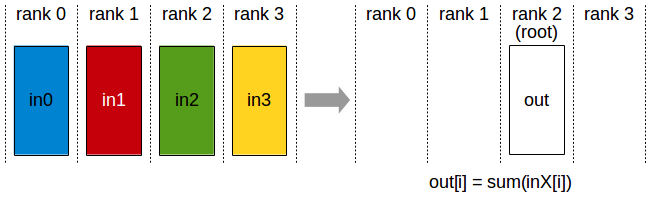
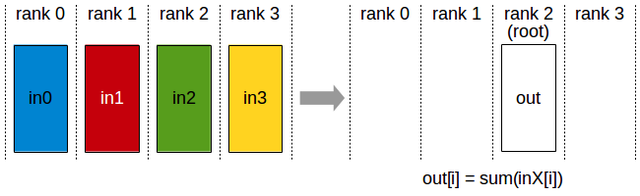
Normalize figure display width to 640px.
Resize docs/figures and NCCL diagrams, and pin README img tags to the same width.

diff --git a/README.md b/README.md
@@ -2,13 +2,13 @@
 
 Map PyTorch **source layout**, **dispatcher / backends**, and **module call stacks** with small cases under `modules/`.
 
-Figures: [`docs/figures/`](docs/figures/). Upstream paths mean a normal PyTorch tree (`torch/`, `aten/`, `c10/`).
+Figures: [`docs/figures/`](docs/figures/) (display width **640px**). Upstream paths mean a normal PyTorch tree (`torch/`, `aten/`, `c10/`).
 
 ---
 
 ## 1. Architecture
 
-![PyTorch composition](docs/figures/pytorch_architecture.jpg)
+<img src="docs/figures/pytorch_architecture.jpg" width="640" alt="PyTorch composition" />
 
 | Layer | Path |
 | --- | --- |
@@ -18,7 +18,7 @@ Figures: [`docs/figures/`](docs/figures/). Upstream paths mean a normal PyTorch 
 | Libs | `ATen` (ops + Dispatcher) · `c10` (Tensor/Storage/Device/allocator) |
 | Runtime | CUDA / NCCL / drivers |
 
-![torch.compile](docs/figures/torch_compile_flow.jpg)
+<img src="docs/figures/torch_compile_flow.jpg" width="640" alt="torch.compile" />
 
 ---
 
@@ -47,9 +47,9 @@ Figures: [`docs/figures/`](docs/figures/). Upstream paths mean a normal PyTorch 
 
 Eager ops go through the Dispatcher. Kernels are selected by **DispatchKey** / **DispatchKeySet** (`c10/core/DispatchKey.h`).
 
-![Dispatcher mechanism](docs/figures/dispatcher_mechanism.jpg)
+<img src="docs/figures/dispatcher_mechanism.jpg" width="640" alt="Dispatcher mechanism" />
 
-![Backend routing](docs/figures/dispatcher_backend_routing.jpg)
+<img src="docs/figures/dispatcher_backend_routing.jpg" width="640" alt="Backend routing" />
 
 | Idea | Detail |
 | --- | --- |
@@ -58,7 +58,7 @@ Eager ops go through the Dispatcher. Kernels are selected by **DispatchKey** / *
 | Redispatch | wrap keys (Autograd / Functionalize / …) peel themselves and call again |
 | Backend | final key → CPU / CUDA / MPS / XPU / PrivateUse1 / … implementation |
 
-![Eager stack (`torch.add`)](docs/figures/dispatcher_eager_stack.jpg)
+<img src="docs/figures/dispatcher_eager_stack.jpg" width="640" alt="Eager stack torch.add" />
 
 More notes: [`docs/dispatcher/overview.md`](docs/dispatcher/overview.md).
 
@@ -66,40 +66,19 @@ More notes: [`docs/dispatcher/overview.md`](docs/dispatcher/overview.md).
 
 ## 4. Module call stacks
 
-### Tensor
+| Tensor · [`modules/tensor`](modules/tensor/) | Autograd · [`modules/autograd`](modules/autograd/) |
+| --- | --- |
+| <img src="docs/figures/tensor_call_stack.jpg" width="640" alt="Tensor" /> | <img src="docs/figures/autograd_call_stack.jpg" width="640" alt="Autograd" /> |
 
-![Tensor](docs/figures/tensor_call_stack.jpg)
+| NN · [`modules/nn`](modules/nn/) | CUDA · [`modules/cuda`](modules/cuda/) |
+| --- | --- |
+| <img src="docs/figures/nn_call_stack.jpg" width="640" alt="NN" /> | <img src="docs/figures/cuda_call_stack.jpg" width="640" alt="CUDA" /> |
 
-Case: [`modules/tensor`](modules/tensor/)
+**Distributed** · [`modules/distributed`](modules/distributed/) (NCCL diagrams in that README)
 
-### Autograd
+<img src="docs/figures/distributed_call_stack.jpg" width="640" alt="Distributed" />
 
-![Autograd](docs/figures/autograd_call_stack.jpg)
-
-Case: [`modules/autograd`](modules/autograd/)
-
-### NN
-
-![NN](docs/figures/nn_call_stack.jpg)
-
-Case: [`modules/nn`](modules/nn/)
-
-### CUDA
-
-![CUDA](docs/figures/cuda_call_stack.jpg)
-
-Case: [`modules/cuda`](modules/cuda/)
-
-### Distributed
-
-![Distributed](docs/figures/distributed_call_stack.jpg)
-
-Cases + NCCL diagrams: [`modules/distributed`](modules/distributed/)
-
-### Compile / Export
-
-Compile flowchart is in §1. Export sketch: [`modules/export`](modules/export/).  
-c10/ATen reading index: [`modules/c10_aten`](modules/c10_aten/).
+**Compile / Export:** compile figure in §1; export sketch [`modules/export`](modules/export/); c10/ATen index [`modules/c10_aten`](modules/c10_aten/).
 
 ---
 

diff --git a/modules/distributed/README.md b/modules/distributed/README.md
@@ -22,7 +22,7 @@ cd modules/distributed
 
 ## 1. AllReduce — `test_allreduce.py` / `run_allreduce.sh`
 
-![AllReduce](images/allreduce.png)
+<img src="images/allreduce.png" width="640" alt="AllReduce" />
 
 *Source: [NCCL Collective Operations — AllReduce](https://docs.nvidia.com/deeplearning/nccl/user-guide/docs/usage/collectives.html#allreduce)*
 
@@ -40,7 +40,7 @@ Reduce across all ranks (sum / min / max / …), then leave the **full** result 
 
 ## 2. Broadcast — `test_broadcast.py` / `run_broadcast.sh`
 
-![Broadcast](images/broadcast.png)
+<img src="images/broadcast.png" width="640" alt="Broadcast" />
 
 *Source: [NCCL Collective Operations — Broadcast](https://docs.nvidia.com/deeplearning/nccl/user-guide/docs/usage/collectives.html#broadcast)*
 
@@ -58,7 +58,7 @@ Copy a length-`N` buffer from `--root` (default `2`) to every other rank.
 
 ## 3. Reduce — `test_reduce.py` / `run_reduce.sh`
 
-![Reduce](images/reduce.png)
+<img src="images/reduce.png" width="640" alt="Reduce" />
 
 *Source: [NCCL Collective Operations — Reduce](https://docs.nvidia.com/deeplearning/nccl/user-guide/docs/usage/collectives.html#reduce)*
 
@@ -76,7 +76,7 @@ Same reduce math as AllReduce, but only `--root` (default `2`) keeps the result.
 
 ## 4. AllGather — `test_allgather.py` / `run_allgather.sh`
 
-![AllGather](images/allgather.png)
+<img src="images/allgather.png" width="640" alt="AllGather" />
 
 *Source: [NCCL Collective Operations — AllGather](https://docs.nvidia.com/deeplearning/nccl/user-guide/docs/usage/collectives.html#allgather)*
 
@@ -93,7 +93,7 @@ Each of `k` ranks holds `N` elements. Concatenate into a `k * N` buffer and deli
 
 ## 5. ReduceScatter — `test_reducescatter.py` / `run_reducescatter.sh`
 
-![ReduceScatter](images/reducescatter.png)
+<img src="images/reducescatter.png" width="640" alt="ReduceScatter" />
 
 *Source: [NCCL Collective Operations — ReduceScatter](https://docs.nvidia.com/deeplearning/nccl/user-guide/docs/usage/collectives.html#reducescatter)*
 
@@ -110,7 +110,7 @@ Reduce first, then split the result into `k` equal chunks. Rank `Y` keeps only c
 
 ## 6. AlltoAll — `test_alltoall.py` / `run_alltoall.sh`
 
-![AlltoAll](images/alltoall.png)
+<img src="images/alltoall.png" width="640" alt="AlltoAll" />
 
 *Source: [NCCL Collective Operations — AlltoAll](https://docs.nvidia.com/deeplearning/nccl/user-guide/docs/usage/collectives.html#alltoall)*
 
@@ -127,7 +127,7 @@ Each rank’s input is `k * N`, split into `k` segments of length `N`. Rank `Y` 
 
 ## 7. Gather — `test_gather.py` / `run_gather.sh`
 
-![Gather](images/gather.png)
+<img src="images/gather.png" width="640" alt="Gather" />
 
 *Source: [NCCL Collective Operations — Gather](https://docs.nvidia.com/deeplearning/nccl/user-guide/docs/usage/collectives.html#gather)*
 
@@ -143,7 +143,7 @@ Same concatenation as AllGather, but only `--root` (default `2`) holds the `k * 
 
 ## 8. Scatter — `test_scatter.py` / `run_scatter.sh`
 
-![Scatter](images/scatter.png)
+<img src="images/scatter.png" width="640" alt="Scatter" />
 
 *Source: [NCCL Collective Operations — Scatter](https://docs.nvidia.com/deeplearning/nccl/user-guide/docs/usage/collectives.html#scatter)*
 
@@ -167,7 +167,7 @@ Large-scale training often implements AllReduce as ReduceScatter plus AllGather 
 
 ## Call stack (PyTorch)
 
-![Distributed collective call stack](../../docs/figures/distributed_call_stack.jpg)
+<img src="../../docs/figures/distributed_call_stack.jpg" width="640" alt="Distributed collective call stack" />
 
 ---
 

diff --git a/modules/compile/README.md b/modules/compile/README.md
@@ -15,7 +15,7 @@ Where compile sits relative to eager: `_dynamo` → `fx` → `_inductor`, and th
 
 ## Call stack
 
-![torch.compile path](../../docs/figures/torch_compile_flow.jpg)
+<img src="../../docs/figures/torch_compile_flow.jpg" width="640" alt="torch.compile path" />
 
 ## Cases
 

diff --git a/docs/figures/README.md b/docs/figures/README.md
@@ -1,5 +1,7 @@
 # Figures
 
+Display convention: **width 640px** in Markdown (`<img width="640" …>`). Bitmaps are resized to match.
+
 | File | Topic |
 | --- | --- |
 | `pytorch_architecture.jpg` / `.svg` | Layered composition + `torch.compile` |
